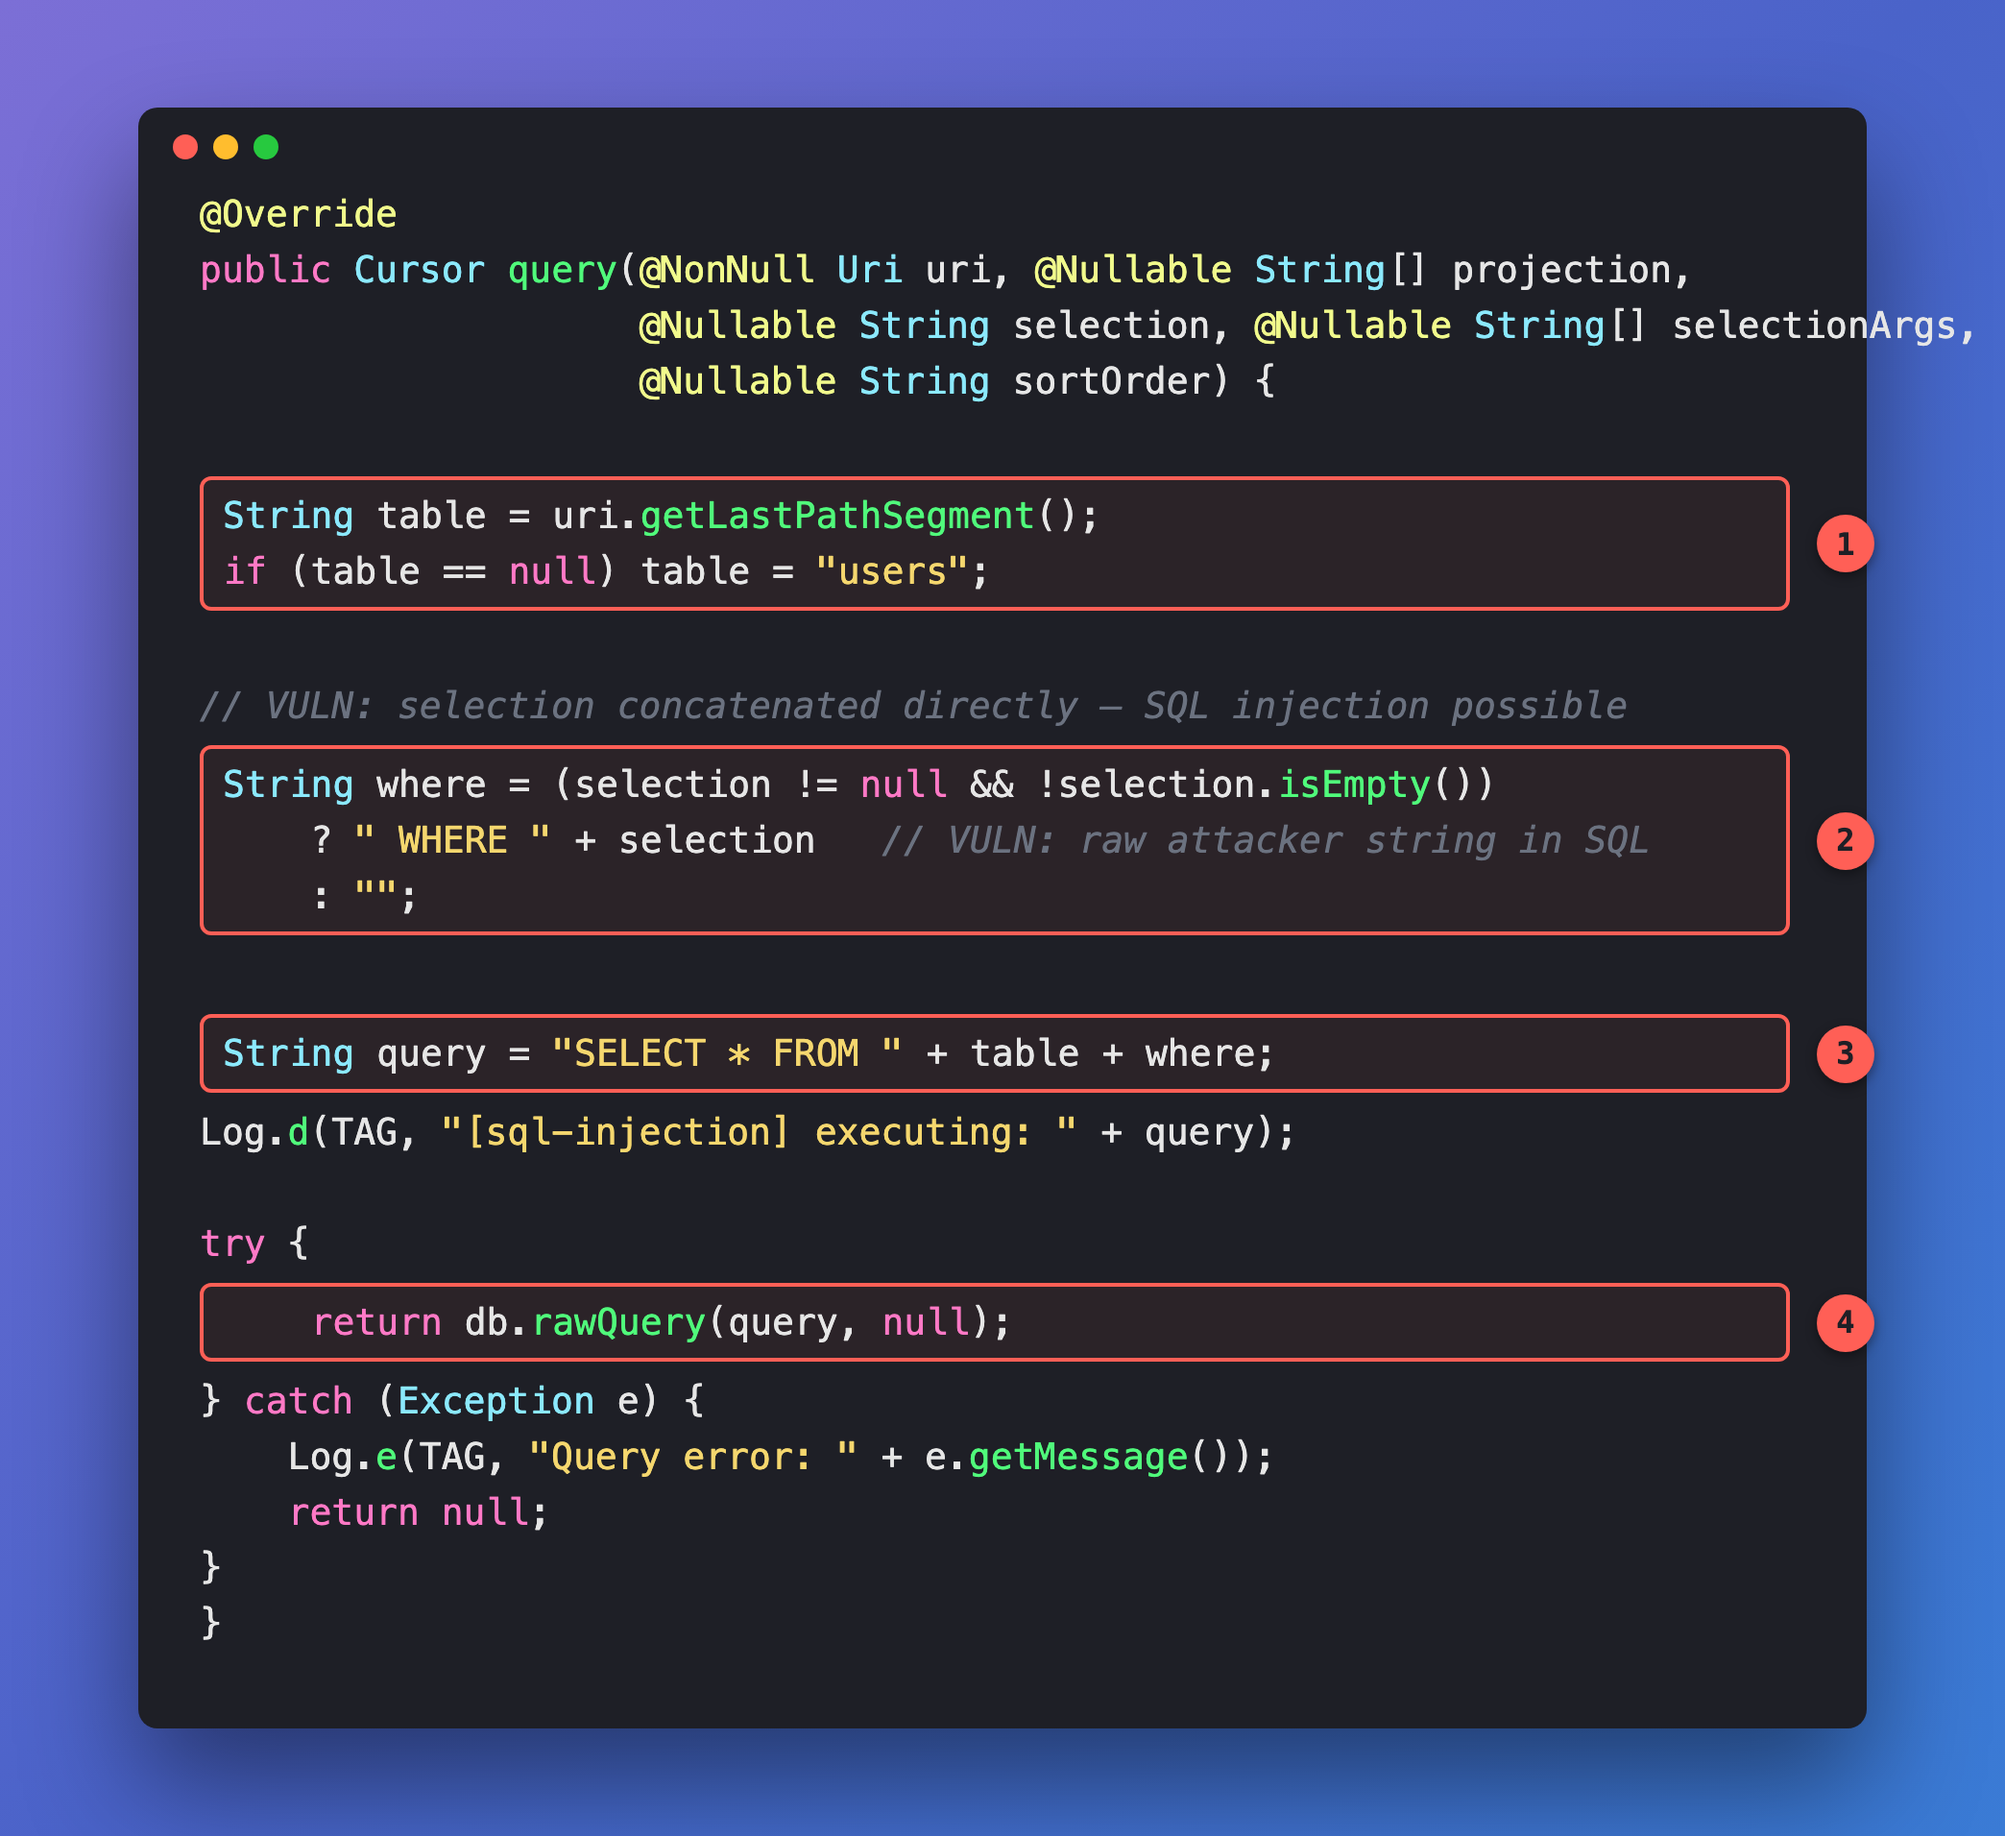
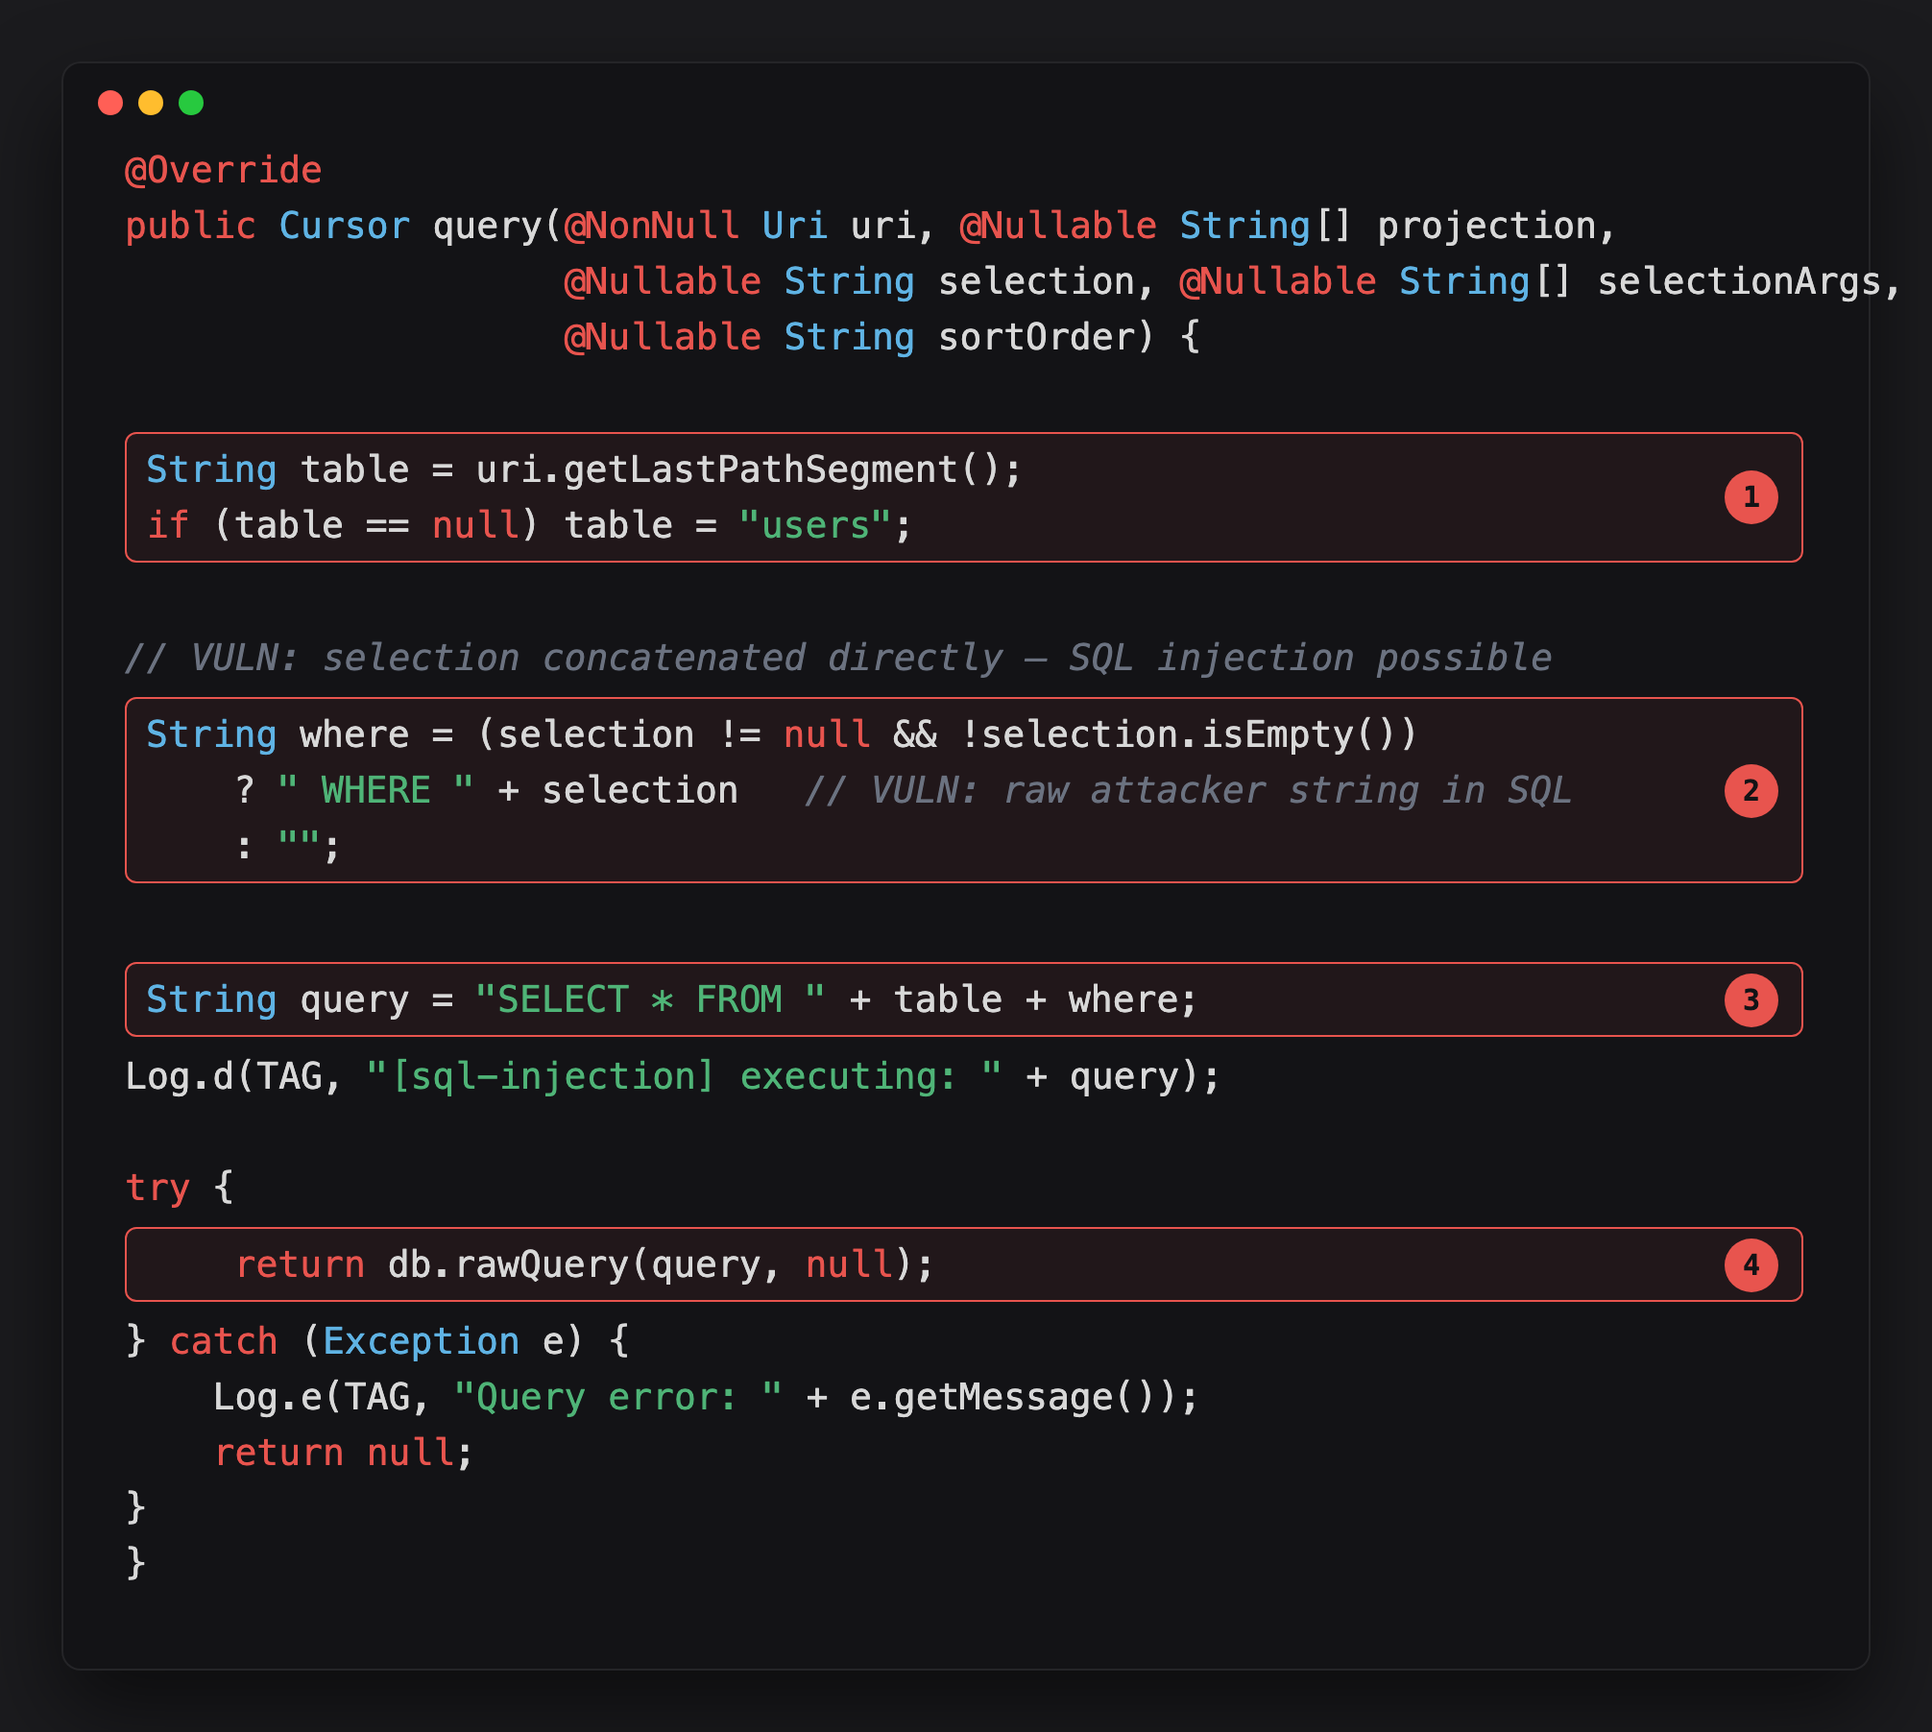
new update

diff --git a/_posts/2026-06-03-content-resolver-sql-injection.md b/_posts/2026-06-03-content-resolver-sql-injection.md
@@ -23,13 +23,13 @@ This is `VulnContentProvider`'s `query()` method - the method every `ContentReso
 
 <img alt="Annotated VulnContentProvider.query() showing four SQL-injection points" loading="lazy" src="https://raw.githubusercontent.com/nirajkharel/nirajkharel.github.io/master/assets/img/images/content-provider-sql-query-annotated.png">
 
-**Highlight 1** is where the table name comes from. `uri.getLastPathSegment()` takes whatever the caller put at the end of the `content://` URI - the `/users` in `content://com.vulnlab.app.provider/users` - and uses it as-is as the table name. Why would a developer write it this way? Because it's a convenient way to let one `query()` method serve multiple tables without writing a `query()` per table - `/users` hits the `users` table, `/sessions` hits `sessions`, one switch avoided. The `if (table == null) table = "users"` fallback is a default, not a check - it never verifies that whatever *did* come through is one of the tables the provider intended to expose.
+**Highlight 1** is where the table name comes from. `uri.getLastPathSegment()` takes whatever's at the end of the `content://` URI - the `/users` in `content://com.vulnlab.app.provider/users` - and uses it as-is as the table name. Convenient: one `query()` serves every table, `/users` hits `users`, `/sessions` hits `sessions`, no per-table switch needed. But the `if (table == null) table = "users"` line is a default, not a check - it never verifies the table name is one the provider intended to expose.
 
-**Highlight 2** is the actual injection point. `selection` is the raw string the caller passed as the `--where` argument (or the `selection` parameter of `ContentResolver.query()`). Does the developer parameterize it? No - they string-concatenate it directly after the literal `" WHERE "`. This is exactly the same mistake as building a SQL string with `+` in a Java servlet, just relocated to Android IPC. The comment in the source even says so - `// VULN: raw attacker string in SQL` - the developer (in this deliberately vulnerable lab app) left themselves a note about it.
+**Highlight 2** is the actual injection point. `selection` is the raw string the caller passed in - as `--where` over adb, or the `selection` parameter of `ContentResolver.query()`. It's string-concatenated straight after `" WHERE "`, no parameterization. Same mistake as building SQL with `+` in a servlet, just relocated to Android IPC - and the source even leaves itself a note about it: `// VULN: raw attacker string in SQL`.
 
-**Highlight 3** is where highlights 1 and 2 combine. `"SELECT * FROM " + table + where` builds the final SQL string by gluing together an attacker-influenced table name and an attacker-controlled WHERE clause onto a fixed `SELECT *`. Nothing here is bound - it's pure string concatenation, three untrusted-adjacent pieces stitched into one statement.
+**Highlight 3** is where 1 and 2 combine. `"SELECT * FROM " + table + where` glues an attacker-influenced table name and an attacker-controlled WHERE clause onto a fixed `SELECT *`. Three untrusted-adjacent pieces, one concatenated string, nothing bound.
 
-**Highlight 4** is the part that actually matters for exploitability: how the query executes. `db.rawQuery(query, null)` runs the fully-built string as SQL, and passes `null` for the bind arguments. That `null` is the tell - if the developer had used `selectionArgs` correctly, this argument would carry the untrusted values as parameters and SQLite would bind them safely, string content and all, no matter what the attacker put in `selection`. Passing `null` here means every character of `selection` gets interpreted as SQL syntax, not as a literal string. That's the whole bug in one method argument.
+**Highlight 4** is what actually makes it exploitable. `db.rawQuery(query, null)` runs that string as SQL and passes `null` for the bind arguments. That `null` is the tell: with `selectionArgs` used correctly, SQLite would bind the untrusted values safely regardless of content. With `null`, every character of `selection` is parsed as SQL syntax instead. That's the whole bug in one argument.
 
 Three injectable parameters fall out of this:
 
@@ -39,62 +39,15 @@ Three injectable parameters fall out of this:
 
 **Projection**, not exploitable here because `rawQuery` ignores the `projection` parameter entirely - but worth checking on every other provider you audit, because a variant that passes `projection` straight into `db.query()` will accept a subquery in place of a column name: `(SELECT password FROM users WHERE id=1)`.
 
-<br>**Identifying it**
+None of that matters if the provider isn't reachable, so the other half of "the shape" is `AndroidManifest.xml` - same as any provider bug, it's where you get the `authority` and the reachability. Three attributes on this declaration decide whether the injectable code above is reachable at all:
 
-Start in `AndroidManifest.xml` - same as any provider bug, it's where you get the `authority` and the reachability. Three attributes on this declaration decide whether the injectable code you'll find in a minute is reachable at all:
+<img alt="Annotated VulnContentProvider manifest declaration showing three reachability attributes" loading="lazy" src="https://raw.githubusercontent.com/nirajkharel/nirajkharel.github.io/master/assets/img/images/content-provider-sql-manifest-annotated.png">
 
-<style>
-.cb-wrap{margin:24px 0;padding:40px 48px;border-radius:14px;background:linear-gradient(135deg,#7c6fd6 0%,#4a63c9 50%,#3a7bd5 100%);}
-.cb-card{position:relative;background:#1e1f26;border-radius:10px;box-shadow:0 20px 40px rgba(0,0,0,0.35);overflow:visible;padding-bottom:20px;}
-.cb-titlebar{display:flex;align-items:center;gap:8px;padding:12px 16px 8px 16px;}
-.cb-dot{width:12px;height:12px;border-radius:50%;display:inline-block;}
-.cb-dot.red{background:#ff5f56;}
-.cb-dot.yellow{background:#ffbd2e;}
-.cb-dot.green{background:#27c93f;}
-.cb-code{font-family:"Menlo","SF Mono","Fira Code",monospace;font-size:15px;line-height:24px;padding:8px 44px 16px 28px;white-space:pre;overflow-x:auto;color:#e6e6e6;}
-.cb-code .cb-line{display:block;}
-.cb-kw{color:#ff79c6;}
-.cb-type{color:#8be9fd;}
-.cb-ann{color:#f1fa8c;}
-.cb-str{color:#f5d76e;}
-.cb-cm{color:#6b7280;font-style:italic;}
-.cb-met{color:#50fa7b;}
-.cb-hlbox{position:relative;margin:4px 0;padding:4px 8px;border:2px solid #ff5f56;border-radius:6px;background:rgba(255,95,86,0.06);}
-.cb-badge{position:absolute;right:-34px;top:50%;transform:translateY(-50%);width:24px;height:24px;border-radius:50%;background:#ff5f56;color:#1e1f26;font-family:"Menlo","SF Mono",monospace;font-weight:700;font-size:13px;display:flex;align-items:center;justify-content:center;box-shadow:0 2px 6px rgba(0,0,0,0.4);}
-@media (max-width:700px){.cb-wrap{padding:16px;}.cb-badge{position:static;transform:none;display:inline-flex;margin-left:8px;}}
-</style>
+**Highlight 1**, `android:authorities`, is the host of every `content://` URI you'll query - `content://com.vulnlab.app.provider/...`. `android:name` maps that authority to the class to open next, `VulnContentProvider`.
 
-<div class="cb-wrap">
-  <div class="cb-card">
-    <div class="cb-titlebar">
-      <span class="cb-dot red"></span>
-      <span class="cb-dot yellow"></span>
-      <span class="cb-dot green"></span>
-    </div>
-    <div class="cb-code">
-<span class="cb-line">&lt;<span class="cb-kw">provider</span></span>
-<span class="cb-line">    <span class="cb-ann">android:name</span>=<span class="cb-str">".providers.VulnContentProvider"</span></span>
-<div class="cb-hlbox">
-<span class="cb-line">    <span class="cb-ann">android:authorities</span>=<span class="cb-str">"com.vulnlab.app.provider"</span></span>
-<div class="cb-badge">1</div>
-</div>
-<div class="cb-hlbox">
-<span class="cb-line">    <span class="cb-ann">android:exported</span>=<span class="cb-str">"true"</span></span>
-<div class="cb-badge">2</div>
-</div>
-<div class="cb-hlbox">
-<span class="cb-line">    <span class="cb-ann">android:grantUriPermissions</span>=<span class="cb-str">"true"</span> /&gt;</span>
-<div class="cb-badge">3</div>
-</div>
-    </div>
-  </div>
-</div>
+**Highlight 2**, `android:exported="true"` with no `android:readPermission`, is what makes any of this reachable - every installed app can call `ContentResolver.query()` against this authority. Flip it to `false`, or gate it behind a `signature` permission, and the injection is still a bug but no longer one a third-party app can trigger.
 
-**Highlight 1**, `android:authorities`, is the host of every `content://` URI you'll query against this provider - `content://com.vulnlab.app.provider/...`. It's also the string `android:name` maps to the class you open next in the decompile, `VulnContentProvider`, where the injectable `query()` method from the previous section lives.
-
-**Highlight 2**, `android:exported="true"`, is the attribute that decides whether any of this matters. Does an exported provider mean any app can query it? Yes, by default - `exported="true"` with no `android:readPermission` means every installed app, no shared signature, no special permission, can call `ContentResolver.query()` against this authority and reach the vulnerable code. Flip this to `false`, or gate it behind a `signature`-level permission, and the injection becomes unreachable from outside the app - still a bug, but no longer a bug a third-party app can trigger.
-
-**Highlight 3**, `android:grantUriPermissions="true"`, is easy to skim past because it doesn't look related to SQL injection at all. It isn't, directly - but it means this provider can also hand out temporary access grants on specific URIs to apps that would otherwise be blocked, which matters when you're chaining this provider with other primitives (the path-traversal `openFile()` bug in this same class, for one). Worth noting when you see it, even if it's not the attribute doing the work in this particular finding.
+**Highlight 3**, `android:grantUriPermissions="true"`, isn't directly related to the SQL injection, but worth noting - it lets this provider hand out temporary URI grants, which matters when chaining with other primitives (the path-traversal `openFile()` bug in this same class, for one).
 
 With the authority and class name in hand, grep the decompile for that class's `query` implementation:
 
